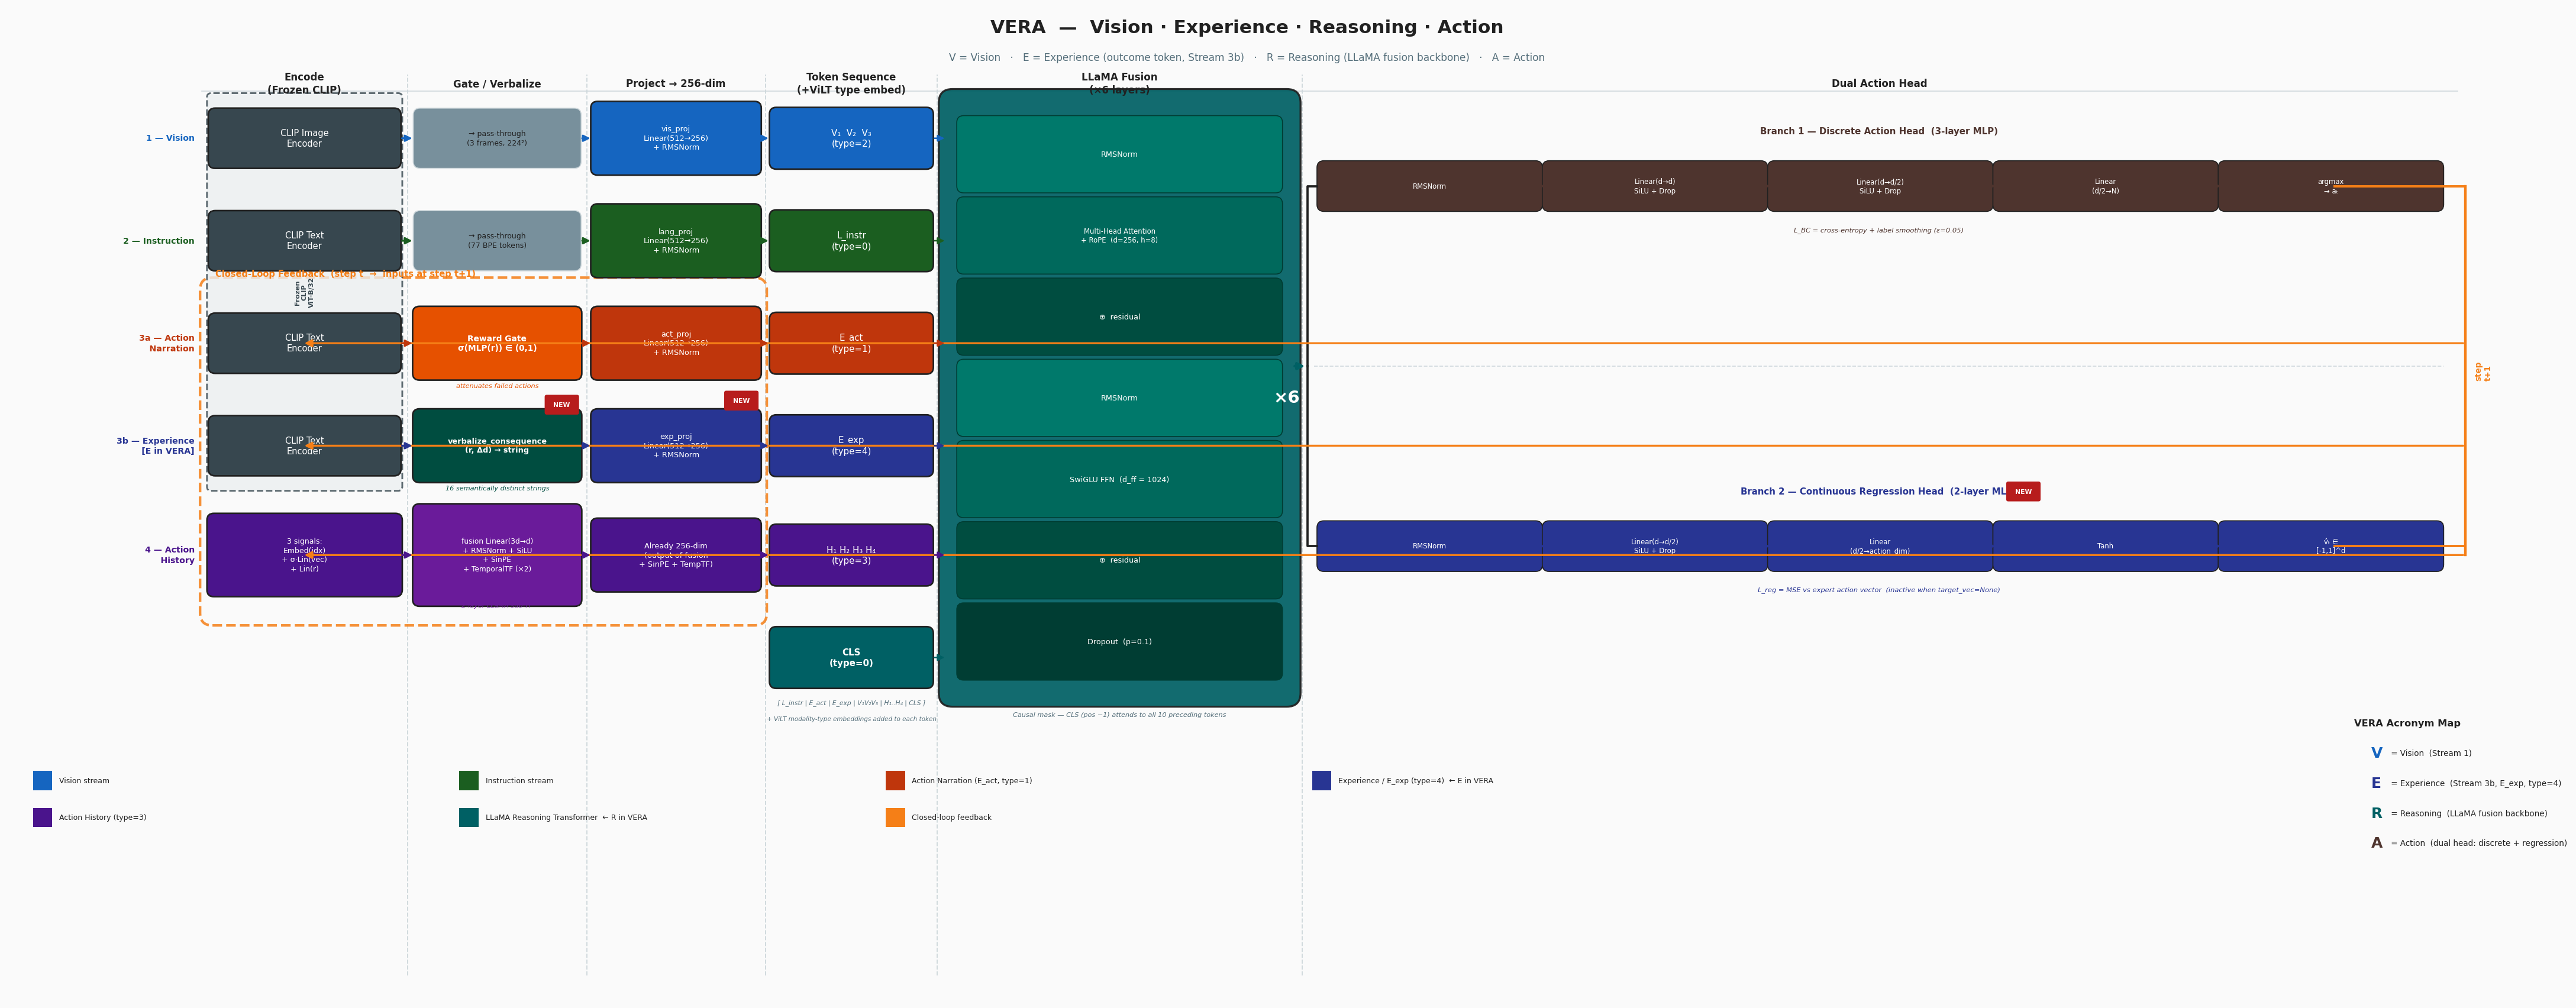
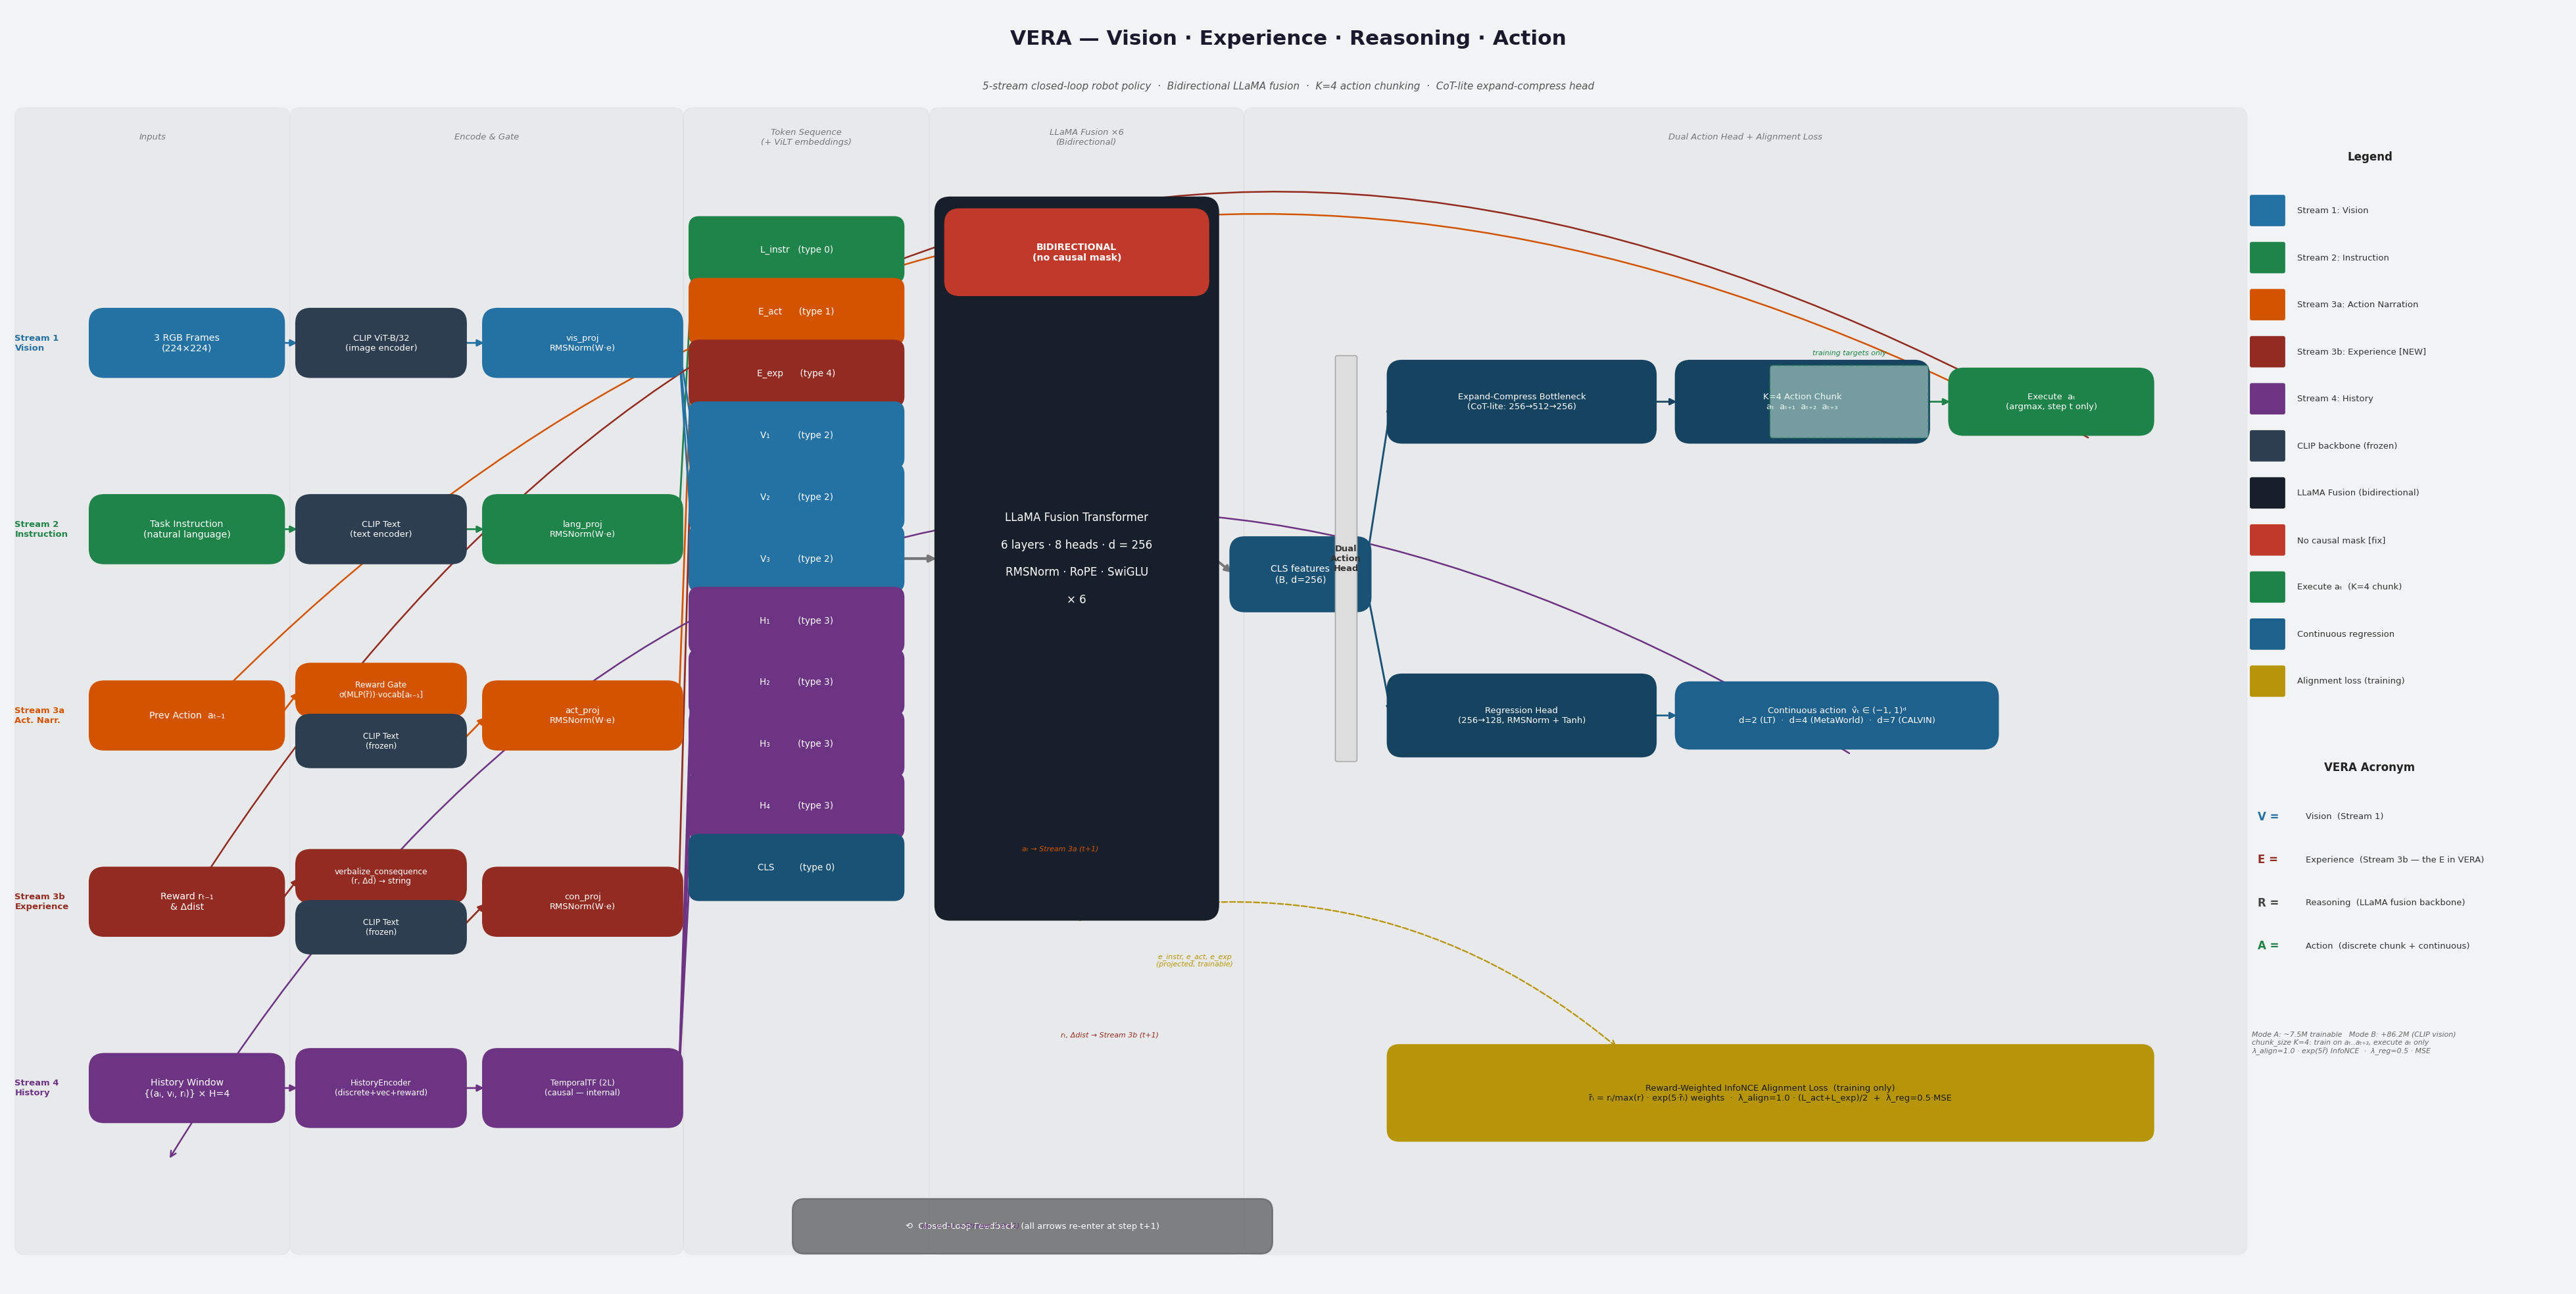
docs: new clean VERA architecture diagram (v2)
Reflects current implementation:
- Bidirectional (no causal mask) — red badge on LLaMA Fusion box
- Expand-Compress CoT-lite action head (256→512→256)
- K=4 action chunking — chunk box with training-only dashed overlay
- Dual output: discrete (chunked) + continuous regression
- Reward-Weighted InfoNCE alignment loss box (exp(5r̃), λ=1.0)
- Feedback arrows: aₜ→3a, rₜ/Δd→3b, (aₜ,vₜ,rₜ)→4
- Legend, VERA acronym, Mode A/B parameter notes

Includes draw_vera_diagram.py source for future edits.

diff --git a/docs/draw_vera_diagram.py b/docs/draw_vera_diagram.py
@@ -1,0 +1,391 @@
+"""
+VERA Architecture Diagram — clean v2
+"""
+import matplotlib
+matplotlib.use("Agg")
+import matplotlib.pyplot as plt
+import matplotlib.patches as mpatches
+from matplotlib.patches import FancyBboxPatch
+import numpy as np
+
+# ── Palette ───────────────────────────────────────────────────────────────────
+C_VIS   = "#2471A3"
+C_INST  = "#1E8449"
+C_ACT   = "#D35400"
+C_EXP   = "#922B21"
+C_HIST  = "#6C3483"
+C_CLIP  = "#2C3E50"
+C_FUSE  = "#17202A"
+C_HEAD  = "#154360"
+C_CLS   = "#1A5276"
+C_FBK   = "#626567"
+C_CHUNK = "#1D8348"
+C_REG   = "#1F618D"
+C_GOLD  = "#B7950B"
+C_WHITE = "#FFFFFF"
+C_LIGHT = "#F2F3F4"
+C_BIDIR = "#C0392B"
+
+SM  = 6.8
+MD  = 8.0
+LG  = 9.5
+
+def box(ax, x, y, w, h, fc, text, fs=MD, tc=C_WHITE,
+        bold=False, rad=0.15, alpha=1.0, ls="-", ec=None, zorder=3):
+    ec = ec or fc
+    p = FancyBboxPatch((x, y), w, h,
+                       boxstyle=f"round,pad=0.04,rounding_size={rad}",
+                       fc=fc, ec=ec, lw=1.1, alpha=alpha,
+                       ls=ls, zorder=zorder)
+    ax.add_patch(p)
+    ax.text(x+w/2, y+h/2, text, ha="center", va="center",
+            fontsize=fs, color=tc, weight="bold" if bold else "normal",
+            multialignment="center", zorder=zorder+1)
+
+def arr(ax, x0,y0,x1,y1, col="#555555", lw=1.3, rad=0.0, zorder=2):
+    ax.annotate("", xy=(x1,y1), xytext=(x0,y0),
+                arrowprops=dict(arrowstyle="-|>", color=col, lw=lw,
+                                connectionstyle=f"arc3,rad={rad}"),
+                zorder=zorder)
+
+def txt(ax, x, y, s, fs=SM, col="#333333", ha="center", va="center",
+        bold=False, italic=False, zorder=5):
+    style = "italic" if italic else "normal"
+    ax.text(x, y, s, ha=ha, va=va, fontsize=fs, color=col,
+            weight="bold" if bold else "normal",
+            style=style, zorder=zorder)
+
+# ── Figure ────────────────────────────────────────────────────────────────────
+FW, FH = 26, 13
+fig, ax = plt.subplots(figsize=(FW, FH), dpi=150)
+ax.set_xlim(0, FW); ax.set_ylim(0, FH); ax.axis("off")
+fig.patch.set_facecolor(C_LIGHT); ax.set_facecolor(C_LIGHT)
+
+# Title
+txt(ax, FW/2, 12.70,
+    "VERA — Vision · Experience · Reasoning · Action",
+    fs=15, col="#1A1A2E", bold=True)
+txt(ax, FW/2, 12.22,
+    "5-stream closed-loop robot policy  ·  Bidirectional LLaMA fusion  ·  K=4 action chunking  ·  CoT-lite expand-compress head",
+    fs=SM+0.5, col="#555555", italic=True)
+
+# ── Section backgrounds ───────────────────────────────────────────────────────
+def sbg(ax, x, w, label, col="#AAAAAA"):
+    r = FancyBboxPatch((x, 0.4), w, 11.5,
+                       boxstyle="round,pad=0.1",
+                       fc=col, ec="#BBBBBB", lw=0.6,
+                       alpha=0.13, zorder=0)
+    ax.add_patch(r)
+    txt(ax, x+w/2, 11.70, label, fs=SM-0.5, col="#777777", italic=True)
+
+sbg(ax,  0.15,  2.6,  "Inputs")
+sbg(ax,  2.95,  3.8,  "Encode & Gate")
+sbg(ax,  6.95,  2.3,  "Token Sequence\n(+ ViLT embeddings)")
+sbg(ax,  9.45,  3.0,  "LLaMA Fusion ×6\n(Bidirectional)")
+sbg(ax, 12.65, 10.0,  "Dual Action Head + Alignment Loss")
+
+# ── Stream row y-centres ──────────────────────────────────────────────────────
+Y1 = 9.60   # Vision
+Y2 = 7.70   # Instruction
+Y3 = 5.80   # Stream 3a
+Y4 = 3.90   # Stream 3b
+Y5 = 2.00   # History
+BH = 0.62
+
+# ── Stream labels ─────────────────────────────────────────────────────────────
+for yc, lab, col in [
+    (Y1, "Stream 1\nVision",        C_VIS),
+    (Y2, "Stream 2\nInstruction",   C_INST),
+    (Y3, "Stream 3a\nAct. Narr.",   C_ACT),
+    (Y4, "Stream 3b\nExperience",   C_EXP),
+    (Y5, "Stream 4\nHistory",       C_HIST),
+]:
+    txt(ax, 0.05, yc, lab, fs=SM-0.5, col=col, ha="left", bold=True)
+
+# ── Column 1: Inputs  x=0.85-2.35 ────────────────────────────────────────────
+IX, IW = 0.85, 1.90
+for yc, col, lab in [
+    (Y1, C_VIS,  "3 RGB Frames\n(224×224)"),
+    (Y2, C_INST, "Task Instruction\n(natural language)"),
+    (Y3, C_ACT,  "Prev Action  aₜ₋₁"),
+    (Y4, C_EXP,  "Reward rₜ₋₁\n& Δdist"),
+    (Y5, C_HIST, "History Window\n{(aᵢ, vᵢ, rᵢ)} × H=4"),
+]:
+    box(ax, IX, yc-BH/2, IW, BH, col, lab, fs=SM)
+
+# ── Column 2: Encoders  x=2.95-6.55 ─────────────────────────────────────────
+E1X, E1W = 2.95, 1.65   # encoder 1
+E2X, E2W = 4.85, 1.95   # projection
+
+def stream_encode(ax, yc, enc_txt, proj_txt, ec, pc, ih=BH):
+    box(ax, E1X, yc-ih/2, E1W, ih, C_CLIP, enc_txt,  fs=SM-0.5)
+    box(ax, E2X, yc-ih/2, E2W, ih, pc,     proj_txt, fs=SM-0.5)
+    arr(ax, IX+IW, yc, E1X, yc, col=ec)
+    arr(ax, E1X+E1W, yc, E2X, yc, col=ec)
+
+stream_encode(ax, Y1,
+    "CLIP ViT-B/32\n(image encoder)",
+    "vis_proj\nRMSNorm(W·e)",
+    C_VIS, C_VIS)
+
+stream_encode(ax, Y2,
+    "CLIP Text\n(text encoder)",
+    "lang_proj\nRMSNorm(W·e)",
+    C_INST, C_INST)
+
+# Stream 3a: two sub-boxes stacked
+G3Y = Y3+0.26; C3Y = Y3-0.26
+box(ax, E1X, G3Y-0.23, E1W, 0.46, C_ACT,
+    "Reward Gate\nσ(MLP(r̃))·vocab[aₜ₋₁]", fs=SM-1.0)
+box(ax, E1X, C3Y-0.23, E1W, 0.46, C_CLIP,
+    "CLIP Text\n(frozen)", fs=SM-1.0)
+arr(ax, IX+IW,     Y3,   E1X, G3Y, col=C_ACT)
+arr(ax, E1X+E1W*0.5, G3Y-0.23, E1X+E1W*0.5, C3Y+0.23, col=C_ACT)
+box(ax, E2X, Y3-BH/2, E2W, BH, C_ACT, "act_proj\nRMSNorm(W·e)", fs=SM-0.5)
+arr(ax, E1X+E1W, C3Y, E2X, Y3, col=C_ACT)
+
+# Stream 3b
+G4Y = Y4+0.26; C4Y = Y4-0.26
+box(ax, E1X, G4Y-0.23, E1W, 0.46, C_EXP,
+    "verbalize_consequence\n(r, Δd) → string", fs=SM-1.0)
+box(ax, E1X, C4Y-0.23, E1W, 0.46, C_CLIP,
+    "CLIP Text\n(frozen)", fs=SM-1.0)
+arr(ax, IX+IW,     Y4,   E1X, G4Y, col=C_EXP)
+arr(ax, E1X+E1W*0.5, G4Y-0.23, E1X+E1W*0.5, C4Y+0.23, col=C_EXP)
+box(ax, E2X, Y4-BH/2, E2W, BH, C_EXP, "con_proj\nRMSNorm(W·e)", fs=SM-0.5)
+arr(ax, E1X+E1W, C4Y, E2X, Y4, col=C_EXP)
+
+# History
+box(ax, E1X, Y5-0.36, E1W, 0.72, C_HIST,
+    "HistoryEncoder\n(discrete+vec+reward)", fs=SM-1.0)
+box(ax, E2X, Y5-0.36, E2W, 0.72, C_HIST,
+    "TemporalTF (2L)\n(causal — internal)", fs=SM-1.0)
+arr(ax, IX+IW, Y5, E1X, Y5, col=C_HIST)
+arr(ax, E1X+E1W, Y5, E2X, Y5, col=C_HIST)
+
+# ── Column 3: Token Sequence  x=6.95-9.25 ────────────────────────────────────
+TX, TW, TH = 6.95, 2.10, 0.59
+
+token_data = [
+    # (y_centre, color, label)
+    (10.55, C_INST, "L_instr   (type 0)"),
+    (9.92,  C_ACT,  "E_act      (type 1)"),
+    (9.29,  C_EXP,  "E_exp      (type 4)"),
+    (8.66,  C_VIS,  "V₁          (type 2)"),
+    (8.03,  C_VIS,  "V₂          (type 2)"),
+    (7.40,  C_VIS,  "V₃          (type 2)"),
+    (6.77,  C_HIST, "H₁          (type 3)"),
+    (6.14,  C_HIST, "H₂          (type 3)"),
+    (5.51,  C_HIST, "H₃          (type 3)"),
+    (4.88,  C_HIST, "H₄          (type 3)"),
+    (4.25,  C_CLS,  "CLS         (type 0)"),
+]
+for yc, col, lab in token_data:
+    box(ax, TX, yc-TH/2, TW, TH, col, lab, fs=SM-0.3, rad=0.10)
+
+# Arrows: projections → tokens
+arr(ax, E2X+E2W, Y2, TX, 10.55, col=C_INST)   # instr → L_instr
+arr(ax, E2X+E2W, Y3, TX,  9.92, col=C_ACT)    # act   → E_act
+arr(ax, E2X+E2W, Y4, TX,  9.29, col=C_EXP)    # exp   → E_exp
+for yy in [8.66, 8.03, 7.40]:                  # vis frames
+    arr(ax, E2X+E2W, Y1, TX, yy, col=C_VIS)
+for yy in [6.77, 6.14, 5.51, 4.88]:            # history
+    arr(ax, E2X+E2W, Y5, TX, yy, col=C_HIST)
+
+# ── Column 4: LLaMA Fusion  x=9.45-12.25 ────────────────────────────────────
+FX, FW_box = 9.45, 2.80
+F_BOT = 4.25 - TH/2 - 0.20
+F_TOP = 10.55 + TH/2 + 0.20
+F_H   = F_TOP - F_BOT
+
+box(ax, FX, F_BOT, FW_box, F_H, C_FUSE,
+    "LLaMA Fusion Transformer\n\n"
+    "6 layers · 8 heads · d = 256\n\n"
+    "RMSNorm · RoPE · SwiGLU\n\n"
+    "× 6",
+    fs=MD, bold=False)
+
+# Bidirectional badge
+BD_W, BD_H = FW_box - 0.20, 0.80
+box(ax, FX+0.10, F_TOP - BD_H - 0.12, BD_W, BD_H,
+    C_BIDIR, "BIDIRECTIONAL\n(no causal mask)",
+    fs=SM, bold=True)
+
+# wide arrow tokens → fusion
+arr(ax, TX+TW, 7.40, FX, 7.40, col="#777777", lw=2.0)
+
+# ── CLS output  x=12.45-13.85 ────────────────────────────────────────────────
+CX, CW_, CY_, CH_ = 12.45, 1.35, 6.90, 0.68
+box(ax, CX, CY_, CW_, CH_, C_CLS,
+    "CLS features\n(B, d=256)", fs=SM)
+arr(ax, FX+FW_box, 7.40, CX, CY_+CH_/2, col="#777777", lw=1.8)
+
+# ── Dual Action Head ──────────────────────────────────────────────────────────
+HX  = 14.05   # head start x
+BW1 = 2.65    # expand-compress box width
+BW2 = 2.50    # chunk output box width
+BW3 = 2.00    # execute box width
+BW4 = 2.65    # regression head width
+BW5 = 3.20    # continuous output box
+
+GAP = 0.28    # gap between boxes
+
+# Branch 1 — Discrete (y-centre 9.00)
+D_Y = 9.00
+box(ax, HX, D_Y-0.38, BW1, 0.76, C_HEAD,
+    "Expand-Compress Bottleneck\n(CoT-lite: 256→512→256)", fs=SM-0.5)
+arr(ax, HX+BW1, D_Y, HX+BW1+GAP, D_Y, col=C_HEAD)
+
+box(ax, HX+BW1+GAP, D_Y-0.38, BW2, 0.76, C_HEAD,
+    "K=4 Action Chunk\naₜ  aₜ₊₁  aₜ₊₂  aₜ₊₃", fs=SM-0.5)
+arr(ax, HX+BW1+GAP+BW2, D_Y, HX+BW1+GAP+BW2+GAP, D_Y, col=C_CHUNK)
+
+box(ax, HX+BW1+GAP+BW2+GAP, D_Y-0.30, BW3, 0.60, C_CHUNK,
+    "Execute  aₜ\n(argmax, step t only)", fs=SM-0.5)
+
+# dashed box over aₜ₊₁..aₜ₊₃
+dx = HX+BW1+GAP + BW2*0.38
+dw = BW2*0.62
+p = FancyBboxPatch((dx, D_Y-0.34), dw, 0.68,
+                   boxstyle="round,pad=0.03",
+                   fc="#d5f5e3", ec=C_CHUNK, lw=0.9,
+                   ls="--", alpha=0.50, zorder=4)
+ax.add_patch(p)
+txt(ax, dx+dw/2, D_Y+0.50,
+    "training targets only", fs=SM-1.5, col=C_CHUNK, italic=True)
+
+# Branch 2 — Continuous (y-centre 5.80)
+R_Y = 5.80
+box(ax, HX, R_Y-0.38, BW1, 0.76, C_HEAD,
+    "Regression Head\n(256→128, RMSNorm + Tanh)", fs=SM-0.5)
+arr(ax, HX+BW1, R_Y, HX+BW1+GAP, R_Y, col=C_REG)
+
+box(ax, HX+BW1+GAP, R_Y-0.30, BW5, 0.60, C_REG,
+    "Continuous action  v̂ₜ ∈ (−1, 1)ᵈ\n"
+    "d=2 (LT)  ·  d=4 (MetaWorld)  ·  d=7 (CALVIN)", fs=SM-0.5)
+
+# Connector: CLS → Branch 1 and Branch 2
+arr(ax, CX+CW_, CY_+CH_*0.72, HX, D_Y,   col=C_CLS, lw=1.4)
+arr(ax, CX+CW_, CY_+CH_*0.28, HX, R_Y,   col=C_CLS, lw=1.4)
+
+# ── "Dual Action Head" brace label ───────────────────────────────────────────
+brace_x = HX - 0.55
+brace_yb = R_Y - 0.45
+brace_yt = D_Y + 0.45
+p2 = FancyBboxPatch((brace_x, brace_yb), 0.18, brace_yt-brace_yb,
+                    boxstyle="round,pad=0.02",
+                    fc="#DDDDDD", ec="#AAAAAA", lw=0.8, zorder=3)
+ax.add_patch(p2)
+txt(ax, brace_x+0.09, (brace_yb+brace_yt)/2,
+    "Dual\nAction\nHead", fs=SM-0.5, col="#333333",
+    bold=True, va="center")
+
+# ── InfoNCE alignment loss ────────────────────────────────────────────────────
+AL_X = HX
+AL_Y = 1.50
+AL_W = BW1 + GAP + BW2 + GAP + BW3
+AL_H = 0.90
+box(ax, AL_X, AL_Y, AL_W, AL_H, C_GOLD,
+    "Reward-Weighted InfoNCE Alignment Loss  (training only)\n"
+    "r̃ᵢ = rᵢ/max(r) · exp(5·r̃ᵢ) weights  ·  λ_align=1.0 · (L_act+L_exp)/2  +  λ_reg=0.5·MSE",
+    fs=SM-0.5, tc="#1A1A1A", rad=0.12)
+
+ax.annotate("", xy=(AL_X+AL_W*0.3, AL_Y+AL_H),
+            xytext=(FX+FW_box/2, F_BOT-0.05),
+            arrowprops=dict(arrowstyle="->", color=C_GOLD, lw=1.1,
+                            ls="dashed",
+                            connectionstyle="arc3,rad=-0.25"), zorder=2)
+txt(ax, FX+FW_box/2+1.2, F_BOT-0.45,
+    "e_instr, e_act, e_exp\n(projected, trainable)",
+    fs=SM-1.5, col=C_GOLD, italic=True)
+
+# ── FEEDBACK LOOP ─────────────────────────────────────────────────────────────
+# Route cleanly below y=0.9 so nothing overlaps
+EXEC_MID_X = HX+BW1+GAP+BW2+GAP + BW3/2
+
+# aₜ → Stream 3a
+ax.annotate("",
+    xy=(IX+IW*0.4, Y3-BH/2-0.02),
+    xytext=(EXEC_MID_X, D_Y-0.30),
+    arrowprops=dict(arrowstyle="->", color=C_ACT, lw=1.2,
+                    connectionstyle="arc3,rad=0.38"), zorder=2)
+txt(ax, (IX+IW*0.4+EXEC_MID_X)*0.5 - 0.5, Y3-BH/2-1.05,
+    "aₜ → Stream 3a (t+1)", fs=SM-1.5, col=C_ACT, italic=True)
+
+# rₜ, Δd → Stream 3b
+ax.annotate("",
+    xy=(IX+IW*0.4, Y4-BH/2-0.02),
+    xytext=(EXEC_MID_X+0.4, D_Y-0.38),
+    arrowprops=dict(arrowstyle="->", color=C_EXP, lw=1.2,
+                    connectionstyle="arc3,rad=0.48"), zorder=2)
+txt(ax, (IX+IW*0.4+EXEC_MID_X)*0.5, Y4-BH/2-1.05,
+    "rₜ, Δdist → Stream 3b (t+1)", fs=SM-1.5, col=C_EXP, italic=True)
+
+# (aₜ, vₜ, rₜ) → Stream 4
+ax.annotate("",
+    xy=(IX+IW*0.4, Y5-0.36-0.72/2-0.02),
+    xytext=(HX+BW1+GAP+BW2*0.7, R_Y-0.40),
+    arrowprops=dict(arrowstyle="->", color=C_HIST, lw=1.2,
+                    connectionstyle="arc3,rad=0.50"), zorder=2)
+txt(ax, (IX+IW*0.4 + HX+BW1+GAP+BW2*0.7)*0.5 - 0.4, 0.60,
+    "(aₜ, vₜ, rₜ) → Stream 4 (t+1)", fs=SM-1.5, col=C_HIST, italic=True)
+
+# feedback label
+box(ax, 8.0, 0.35, 4.8, 0.48, C_FBK,
+    "⟲  Closed-Loop Feedback  (all arrows re-enter at step t+1)",
+    fs=SM-0.5, tc=C_WHITE, alpha=0.80, rad=0.12)
+
+# ── LEGEND  x=22.8-25.8 ──────────────────────────────────────────────────────
+LX, LY0 = 22.80, 11.50
+txt(ax, LX+1.2, LY0, "Legend", fs=MD, col="#222222", bold=True)
+items = [
+    (C_VIS,   "Stream 1: Vision"),
+    (C_INST,  "Stream 2: Instruction"),
+    (C_ACT,   "Stream 3a: Action Narration"),
+    (C_EXP,   "Stream 3b: Experience [NEW]"),
+    (C_HIST,  "Stream 4: History"),
+    (C_CLIP,  "CLIP backbone (frozen)"),
+    (C_FUSE,  "LLaMA Fusion (bidirectional)"),
+    (C_BIDIR, "No causal mask [fix]"),
+    (C_CHUNK, "Execute aₜ  (K=4 chunk)"),
+    (C_REG,   "Continuous regression"),
+    (C_GOLD,  "Alignment loss (training)"),
+]
+for i, (col, lab) in enumerate(items):
+    yy = LY0 - 0.55 - i*0.48
+    p = FancyBboxPatch((LX, yy-0.14), 0.32, 0.28,
+                       boxstyle="round,pad=0.02",
+                       fc=col, ec="none", zorder=5)
+    ax.add_patch(p)
+    txt(ax, LX+0.46, yy, lab, fs=SM-0.5, ha="left")
+
+# VERA acronym
+txt(ax, LX+1.2, LY0 - 0.55 - len(items)*0.48 - 0.4,
+    "VERA Acronym", fs=MD, col="#222222", bold=True)
+acr = [
+    ("V", "Vision  (Stream 1)",                      C_VIS),
+    ("E", "Experience  (Stream 3b — the E in VERA)", C_EXP),
+    ("R", "Reasoning  (LLaMA fusion backbone)",       "#444444"),
+    ("A", "Action  (discrete chunk + continuous)",    C_CHUNK),
+]
+base_y = LY0 - 0.55 - len(items)*0.48 - 0.90
+for i, (let, desc, col) in enumerate(acr):
+    yy = base_y - i*0.44
+    txt(ax, LX+0.06, yy, f"{let} =", fs=MD, ha="left", col=col, bold=True)
+    txt(ax, LX+0.55, yy, desc, fs=SM-0.5, ha="left")
+
+# Technical notes
+note_y = base_y - len(acr)*0.44 - 0.55
+notes = ("Mode A: ~7.5M trainable   Mode B: +86.2M (CLIP vision)\n"
+         "chunk_size K=4: train on aₜ..aₜ₊₃, execute aₜ only\n"
+         "λ_align=1.0 · exp(5r̃) InfoNCE  ·  λ_reg=0.5 · MSE")
+txt(ax, LX, note_y, notes, fs=SM-1.5, col="#666666", ha="left",
+    italic=True)
+
+# ── Save ──────────────────────────────────────────────────────────────────────
+out = "/Users/HP/Desktop/University/VLA-Robot-Learning/docs/VERA.png"
+plt.tight_layout(pad=0.3)
+plt.savefig(out, dpi=150, bbox_inches="tight",
+            facecolor=C_LIGHT, edgecolor="none")
+print(f"Saved → {out}")
+plt.close()